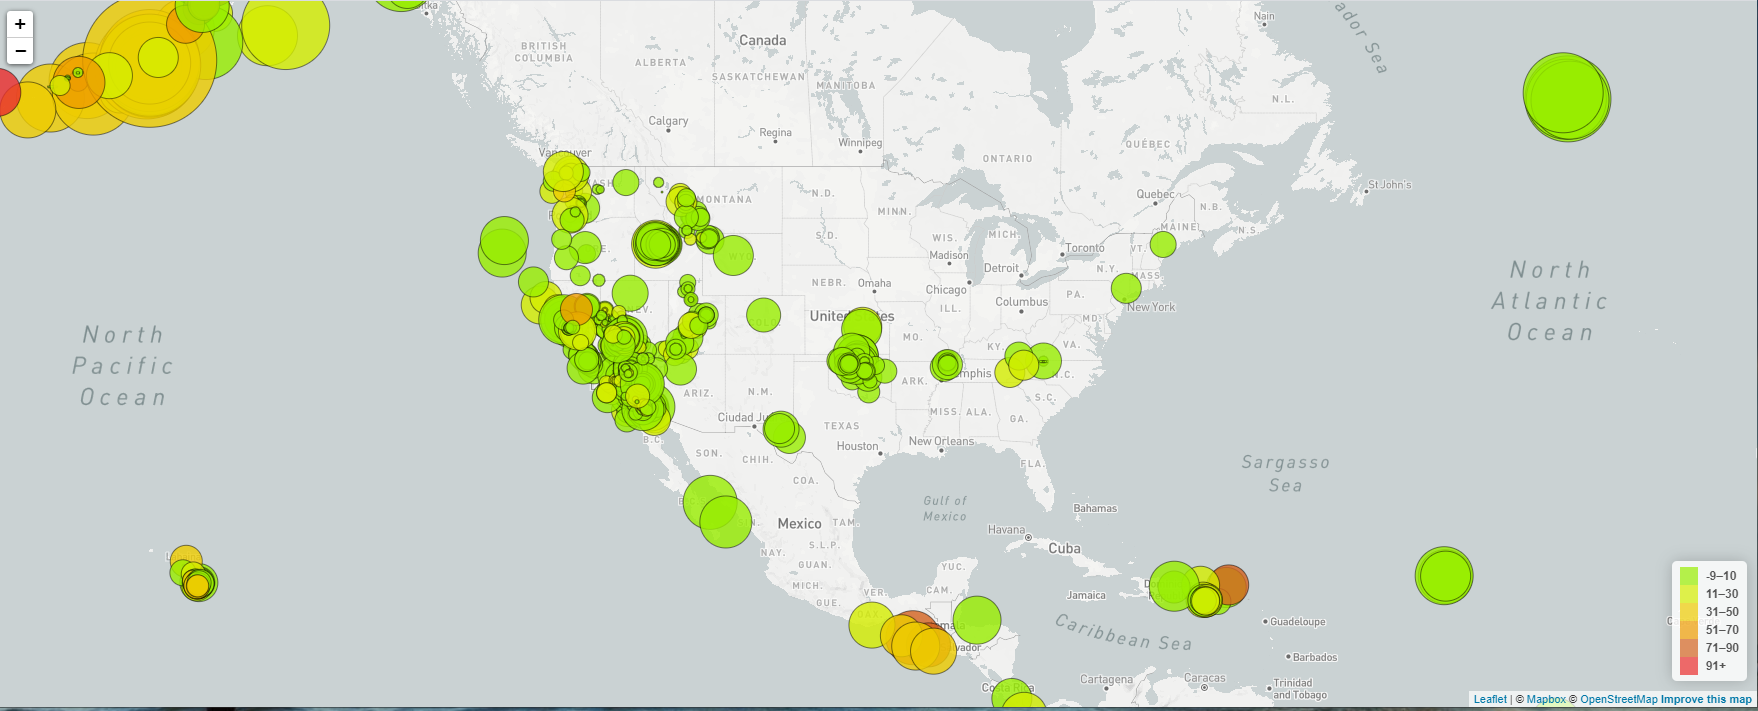
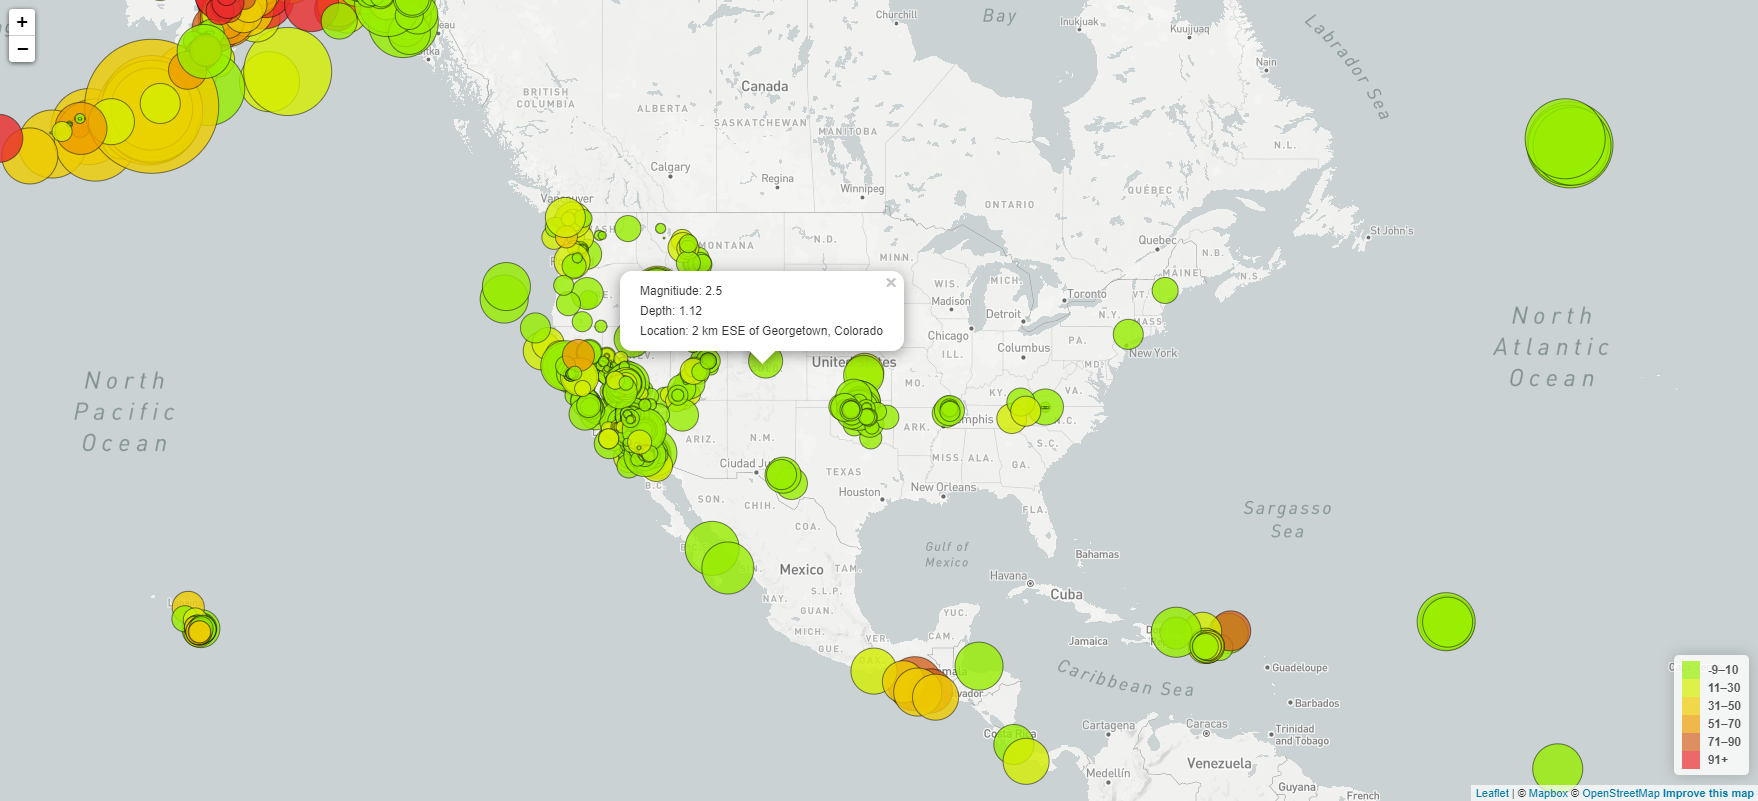
added screenshot for Level 2, finished Level 2 write-up in README

diff --git a/Leaflet-Step-2/static/js/logic.js b/Leaflet-Step-2/static/js/logic.js
@@ -7,9 +7,9 @@ var earthquakeUrl = "https://earthquake.usgs.gov/earthquakes/feed/v1.0/summary/a
 Promise.all([d3.json(seismicURL), d3.json(earthquakeUrl)]).then(([seismicData, data]) => {
 //d3.json(earthquakeUrl).then(data => {
     console.log(seismicData);
-  console.log(data);
-  // Once we get a response, send the data.features object to the createFeatures function
-  createFeatures(seismicData.features, data.features);
+    console.log(data);
+    // Once we get a response, send the data.features object to the createFeatures function
+    createFeatures(seismicData.features, data.features);
 });
 
 // Get the color for the depths
@@ -50,10 +50,6 @@ function createFeatures(tectonicData, earthquakeData) {
     // // Create a GeoJSON layer containing the features array on the earthquakeData object
     // // Run the onEachFeature function once for each piece of data in the array
     var seismic = L.geoJSON(tectonicData, {
-        //onEachFeature: onEachFeature,
-    //   // Creating a geoJSON layer with the retrieved data
-    // //L.geoJson(seismicData, {
-    //     // Style each feature (in this case a tectonic plate)
         style: function(feature) {
             return {
                 color: "#ffba08",
@@ -122,7 +118,7 @@ function createMap(seismic, mags) {
     // Create our map, giving it the streetmap and earthquakes layers to display on load
     var myMap = L.map("map", {
         center: [
-            37.09, -95.71
+            37.09, -65.71
             //15.5994, -28.6731
         ],
         zoom: 4,

diff --git a/README.md b/README.md
@@ -1,4 +1,4 @@
-# leaflet-challenge
+#### leaflet-challenge
 # Visualizing Data with Leaflet
 
 ## Overview
@@ -49,17 +49,15 @@ The end result is as follows:
 
 ### Level 2: More Data
 
-To do the *Bonus* section, I first started with the code I used from the *Core* assignment and saved that to a new file called *bonusapp.js*. This is the file I used for the *Bonus* section, just in case I couldn't get it working but in the process messed up the original *Core* code. So the *app.js* file was not modified or used directly for the *Bonus* section. I did have to add a new `<script>` element to the *index.html* file to use the *bonusapp.js* file instead.
+Since *Level 2* builds on what was created in *Level 1*, I copied the files over from that section and used them as the starting point for *Level 2*. Since this level pulls in another dataset in addition to the earthquake dataset, I decided to get that portion done first. It took a bit of searching on the site we were given, but I finally tracked down the tectonic plates data that I could use. Now I know what the *Raw* button is for in *GitHub*. Tested out the data using `console.log` and with that working successfully, moved on to the base layers.
 
-With all that set up, I started adding to the *bonusapp.js* file. I did change the left margin to account for the additional axes title labels. I added parameters to hold informtion about which x or y axis label was selected and the data that goes along with it. Since the data changes are controlled by clicking one of the axes' labels, I needed to set those parameters up with initial values so there would be data showing initially. Had to modify the scales calculations to accept the parameters. Started with just working on the x-axis but once I got all the code added and working, I mainly duplicated that for the y-axis changes as well. I did add a *click* event and *transition* code to trigger the circle and axes scale changes and have those changes display visually.
+There are 3 different base layers for this map--Satellite, Grayscale (which was the one used in *Level 1*) and Outdoors. Set up the base layers in the code and added the control to the page that would allow the user to select which base layer they wanted to display. It's the base layer, though, so only one can display at a time.
 
-I did run into an issue with circles and the state abbreviations. I could get the circles to transition but the state abbreviations wouldn't move. Resolved that by adding group tags to the SVG container for the circles and the state abbreviations and then adding the circles and text to those.
-
-Next I added the *d3-tip* tooltips to each circle. I did this by adding a `<script>` tag to the *index.html* file for the *d3-tip* library. Then I added some styling to the *d3Style.css* file. After that, I started modifying the code in the *bonusapp.js* file. I added the *tip* function, and a *tooltip* function for what data and how that data would be displayed, and added the `.on('mouseover, )` and `.on(mouseout`) properties to the circles append function. One issue I ran into there was that poverty is a percentage whereas age and household income are not. But all three are on the x-axis and needed to be displayed in the tooltip correctly. At first I was going to just have the *(%)* shown as part of the label in the tooltip so the number from the data would display just that, a number. But I figured out how to add or remove the *%* depending on which label was clicked so I used that approach instead.
+Got the overlays layer done and added to the control so the user can not only select the base layer but also the overlay. Unlike the base layers, both or just one overlay can be selected at once. Had to work on the color that outlined the tectonic plates and figure out what setting controlled that, but I did get that set. Looks the best and is most visible on the *Satellite* base layer.
 
 The end result is below:
 
-![Images/bonus.PNG](Images/bonus.PNG)
+![Images/level_2.PNG](Images/level_2.PNG)
 
 
 ## Notes
